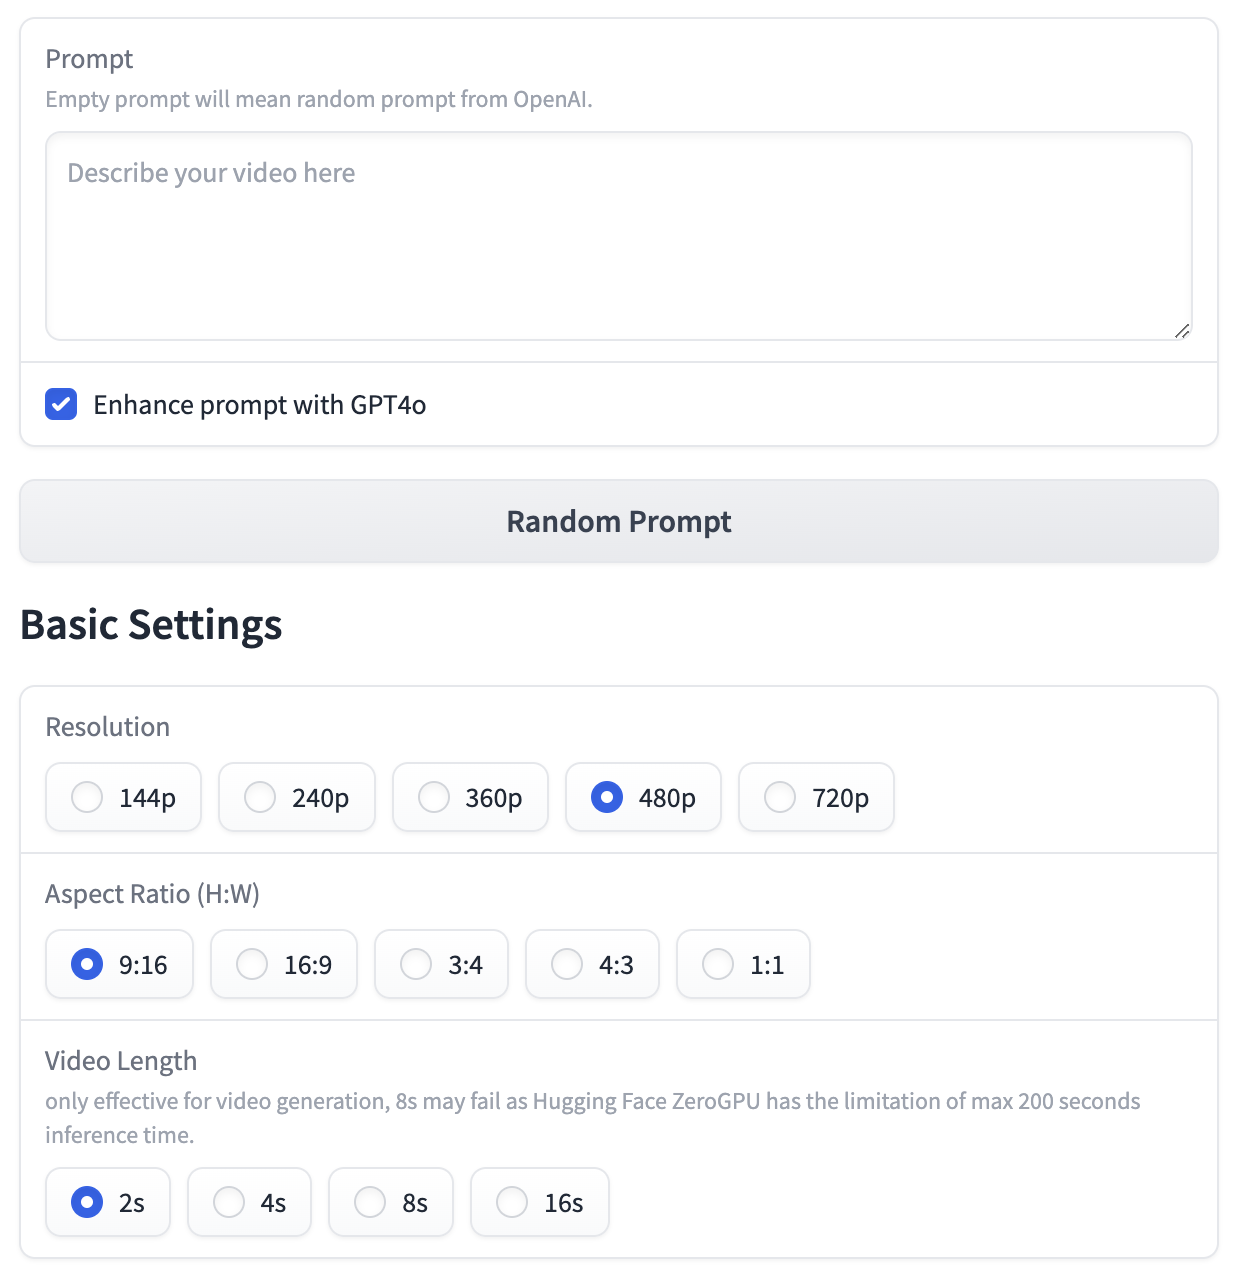
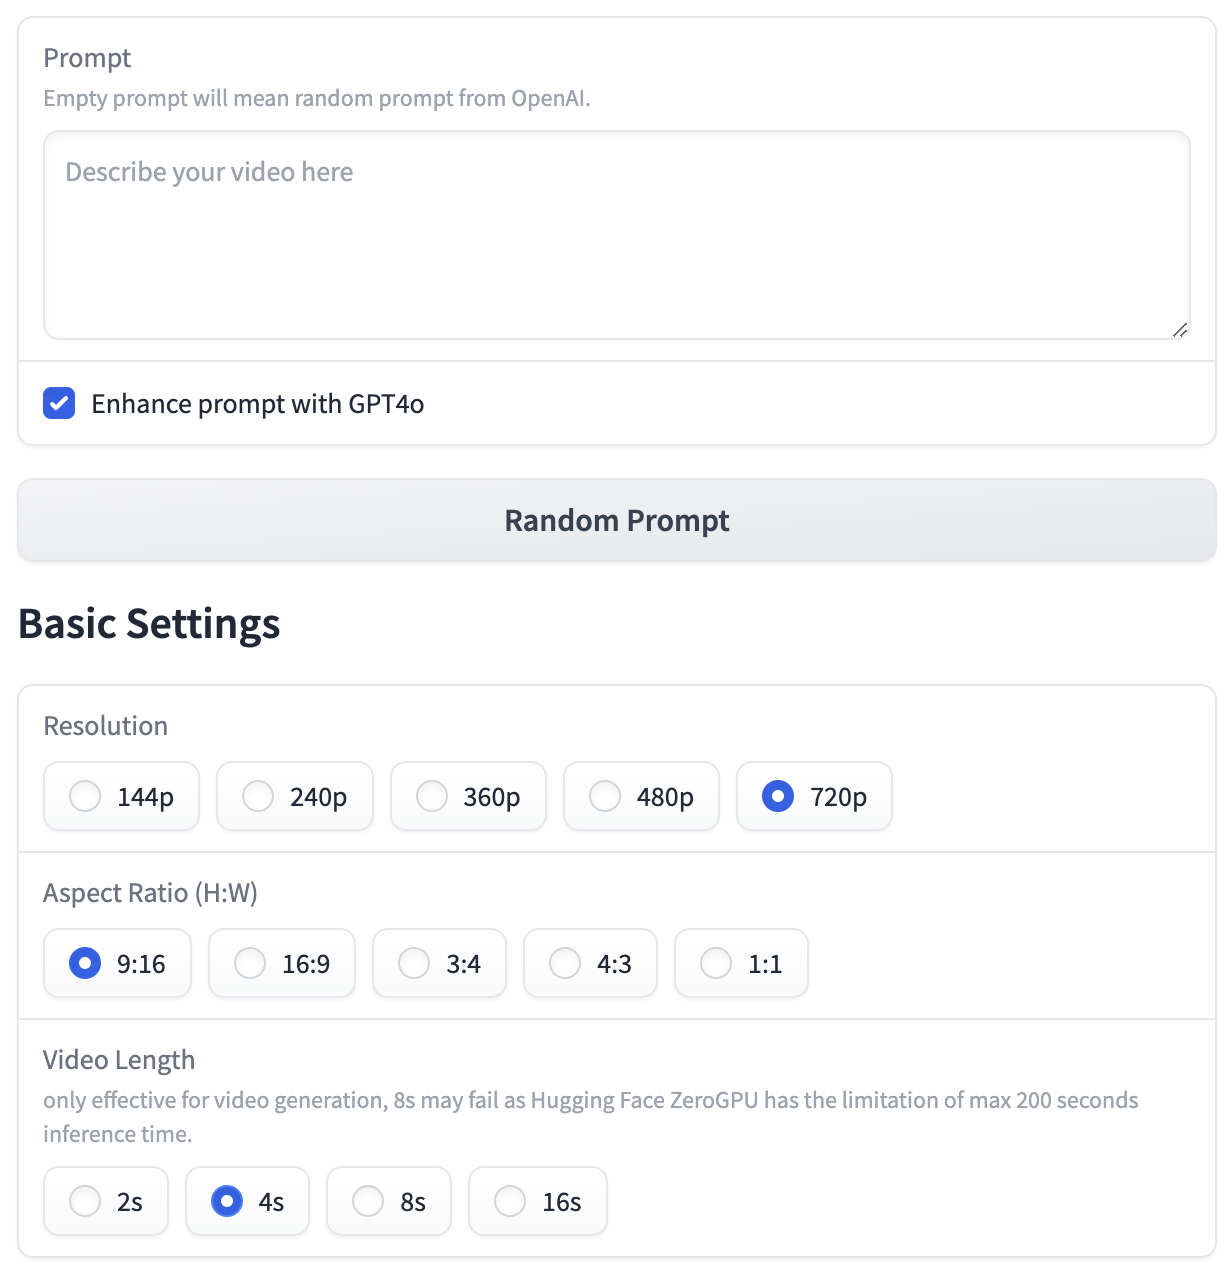
[docs] update readme

diff --git a/README.md b/README.md
@@ -278,9 +278,9 @@ In the Gradio application, the basic options are as follows:
 
 ![Gradio Demo](assets/readme/gradio_basic.png)
 
-The easiest way to generate a video is to input a text prompt and click the "Generate video" button. The generated video will be displayed in the right panel. Click "Enhance prompt with GPT4o" will refine the prompt with GPT-4o, while "Random Prompt" will generate a random prompt by GPT-4o for you. Due to the OpenAI's API limit, the prompt refinement result has some randomness.
+The easiest way to generate a video is to input a text prompt and click the "**Generate video**" button. The generated video will be displayed in the right panel. Checking the "**Enhance prompt with GPT4o**" will use GPT-4o to refine the prompt, while "**Random Prompt**" button will generate a random prompt by GPT-4o for you. Due to the OpenAI's API limit, the prompt refinement result has some randomness.
 
-Then, you can choose the resolution, duration, and aspect ratio of the generated video. Different resolution and video length will affect the video generation speed. On a 80G H100 GPU, the generation speed and peak memory usage is:
+Then, you can choose the **resolution**, **duration**, and **aspect ratio** of the generated video. Different resolution and video length will affect the video generation speed. On a 80G H100 GPU, the generation speed and peak memory usage is:
 
 |      | Image   | 2s       | 4s        | 8s        | 16s       |
 | ---- | ------- | -------- | --------- | --------- | --------- |
@@ -288,13 +288,15 @@ Then, you can choose the resolution, duration, and aspect ratio of the generated
 | 480p | 2s, 24G | 29s, 31G | 55s, 30G  | 108s, 32G | 219s, 36G |
 | 720p | 6s, 27G | 68s, 41G | 130s, 39G | 260s, 45G | 547s, 67G |
 
-Note that besides text to video, you can also use image to video generation. You can upload an image and then click the "Generate video" button to generate a video with the image as the first frame. Or you can fill in the text prompt and click the "Generate image" button to generate an image with the text prompt, and then click the "Generate video" button to generate a video with the image generated with the same model.
+Note that besides text to video, you can also use image to video generation. You can upload an image and then click the "**Generate video**" button to generate a video with the image as the first frame. Or you can fill in the text prompt and click the "**Generate image**" button to generate an image with the text prompt, and then click the "**Generate video**" button to generate a video with the image generated with the same model.
 
 ![Gradio Demo](assets/readme/gradio_option.png)
 
-Then you can specify more options, including "Motion Strength", "Aesthetic" and "Camera Motion". If not "Enable" or the choice is "none", the information is not passed to the model. Otherwise, the model will generate videos with the specified motion strength, aesthetic score, and camera motion.
+Then you can specify more options, including "**Motion Strength**", "**Aesthetic**" and "**Camera Motion**". If "Enable" not checked or the choice is "none", the information is not passed to the model. Otherwise, the model will generate videos with the specified motion strength, aesthetic score, and camera motion.
 
-For the aesthetic score, we recommend using values higher than 6. For motion strength, a smaller value will lead to a smoother but less dynamic video, while a larger value will lead to a more dynamic but likely more blurry video. Thus, you can try without it and then adjust it according to the generated video. For the camera motion, sometimes the model cannot follow the instruction well, and we are working on improving it.
+For the **aesthetic score**, we recommend using values higher than 6. For **motion strength**, a smaller value will lead to a smoother but less dynamic video, while a larger value will lead to a more dynamic but likely more blurry video. Thus, you can try without it and then adjust it according to the generated video. For the **camera motion**, sometimes the model cannot follow the instruction well, and we are working on improving it.
+
+You can also adjust the "**Sampling steps**", this is directly related to the generation speed as it is the number of denoising. A number smaller than 30 usually leads to a poor generation results, while a number larger than 100 usually has no significant improvement. The "**Seed**" is used for reproducibility, you can set it to a fixed number to generate the same video. The "**CFG Scale**" controls how much the model follows the text prompt, a smaller value will lead to a more random video, while a larger value will lead to a more text-following video (7 is recommended).
 
 For more advanced usage, you can refer to [Gradio README](./gradio/README.md).
 

diff --git a/docs/report_03.md b/docs/report_03.md
@@ -7,7 +7,7 @@
 - [Evaluation](#evaluation)
 - [Sequence parallelism](#sequence-parallelism)
 
-In Open-Sora 1.2 release, we train a 1.1B models on >20M data, supporting 0s~15s, 144p to 720p, various aspect ratios video generation. Our configurations is listed below. Following our 1.1 version, Open-Sora 1.2 can also do image-to-video generation and video extension.
+In Open-Sora 1.2 release, we train a 1.1B models on >20M data, with training cost 35k H100 GPU hours, supporting 0s~15s, 144p to 720p, various aspect ratios video generation. Our configurations is listed below. Following our 1.1 version, Open-Sora 1.2 can also do image-to-video generation and video extension.
 
 |      | image | 2s  | 4s  | 8s  | 16s |
 | ---- | ----- | --- | --- | --- | --- |
@@ -83,7 +83,7 @@ After the above adaptation, we are ready to train the model on videos. The adapt
 
 ## More data and better multi-stage training
 
-Due to a limited computational budget, we carefully arrange the training data from low to high quality and split our training into three stages. Our training involves 12x8 GPUs, and the total training time is about 2 weeks.
+Due to a limited computational budget, we carefully arrange the training data from low to high quality and split our training into three stages. Our training involves 12x8 GPUs, and the total training time is about 2 weeks for about 70k steps.
 
 ### First stage
 
